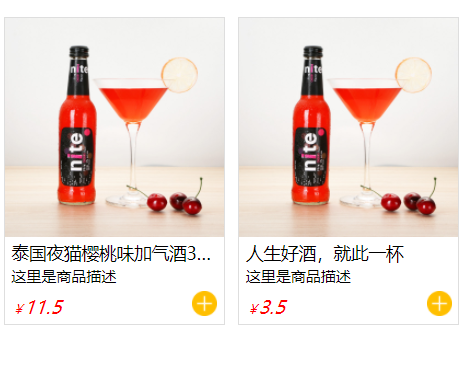
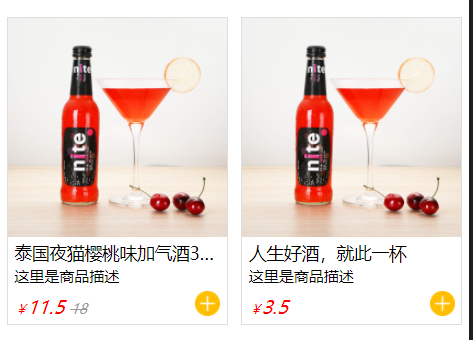
优化goods-item,添加商品原价显示

diff --git a/components/goods-item/goods-item.js b/components/goods-item/goods-item.js
@@ -16,30 +16,30 @@ Component({
 
   lifetimes: {
     // 生命周期函数，可以为函数，或一个在methods段中定义的方法名
-    attached: function () { },
-    moved: function () { },
-    detached: function () { },
+    attached: function() {},
+    moved: function() {},
+    detached: function() {},
   },
 
   // 生命周期函数，可以为函数，或一个在methods段中定义的方法名
-  attached: function () { }, // 此处attached的声明会被lifetimes字段中的声明覆盖
-  ready: function () { },
+  attached: function() {}, // 此处attached的声明会被lifetimes字段中的声明覆盖
+  ready: function() {},
 
   pageLifetimes: {
     // 组件所在页面的生命周期函数
-    show: function () { },
-    hide: function () { },
-    resize: function () { },
+    show: function() {},
+    hide: function() {},
+    resize: function() {},
   },
 
   methods: {
-    onMyButtonTap: function () {
+    onMyButtonTap: function() {
       this.setData({
         // 更新属性和数据的方法与更新页面数据的方法类似
       })
     },
     // 内部方法建议以下划线开头
-    _myPrivateMethod: function () {
+    _myPrivateMethod: function() {
       // 这里将 data.A[0].B 设为 'myPrivateData'
       this.setData({
         'A[0].B': 'myPrivateData'
@@ -49,12 +49,12 @@ Component({
      * 添加操作，一般执行加入到购物车操作，或者是搜藏操作，
      * 在这里触发外部事件，根据需求，自定义外部事件即可
      */
-    _handleAdd: function (e) {
+    _handleAdd: function(e) {
       // 触犯外部事件
       var myEventDetail = {
         id: e.currentTarget.dataset.id
       }
-      this.triggerEvent('handleClick', myEventDetail); 
+      this.triggerEvent('handleClick', myEventDetail);
     }
   }
 

diff --git a/pages/index/index.js b/pages/index/index.js
@@ -22,8 +22,8 @@ Page({
       name: "人生好酒，就此一杯",
       description: "这里是商品描述",
       price: 3.5,
-      oldPrice: 35,
-        imageUrl: "../../images/goodsImg.jpg"
+      oldPrice: '',
+      imageUrl: "../../images/goodsImg.jpg"
     }],
     addImg: "../../images/iconAdd.png"
   },
